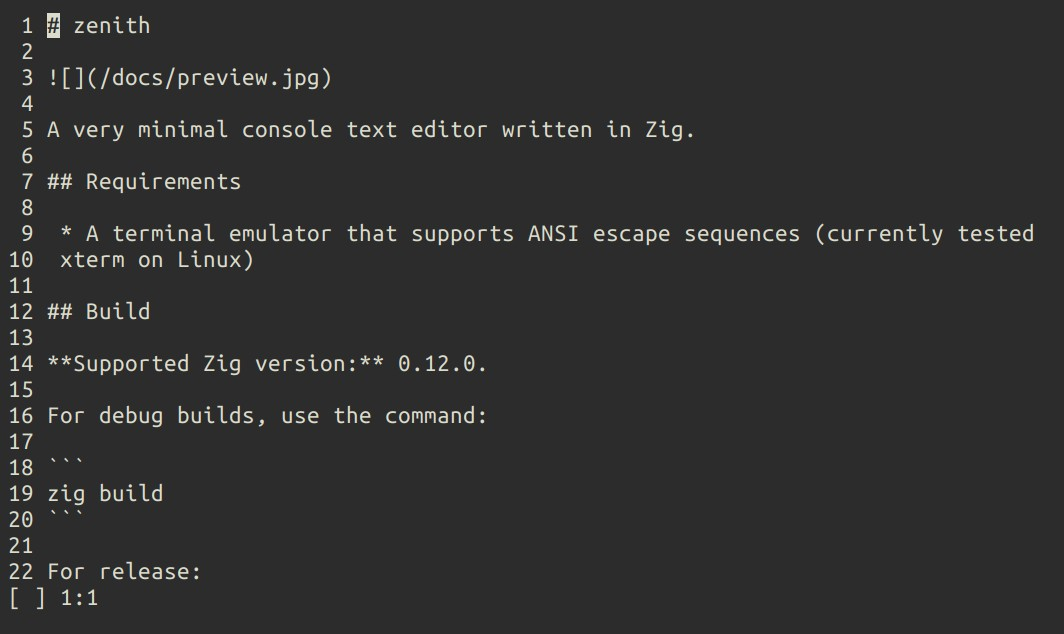
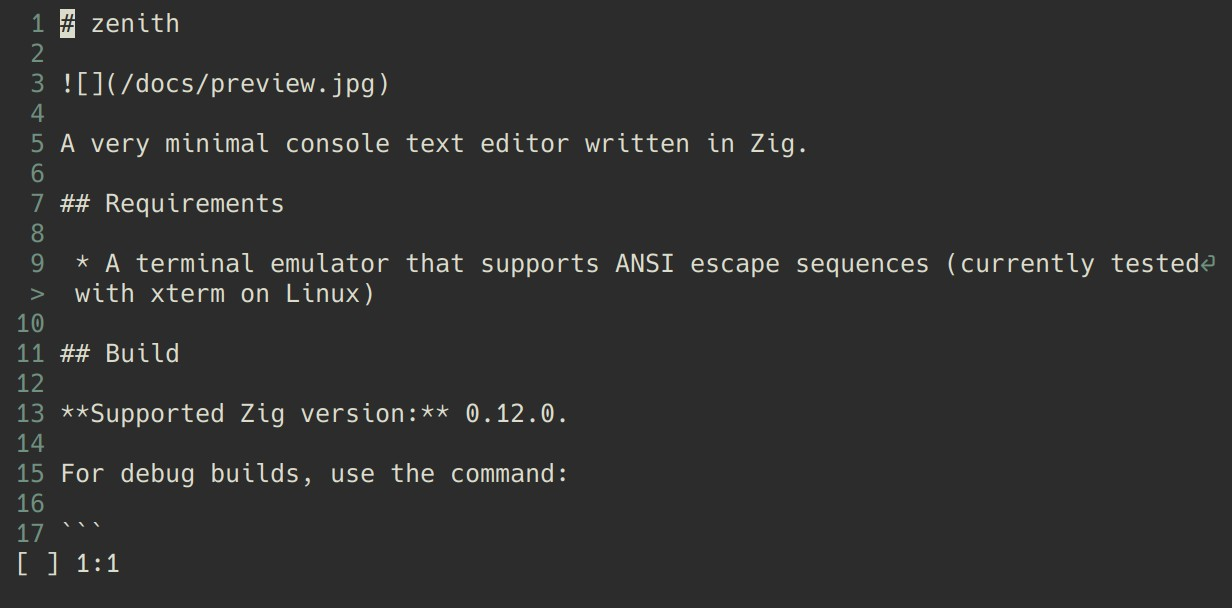
Update docs

Changed region(s): [[0.0, 0.0, 0.9925, 0.9688]]

diff --git a/DESIGN.md b/DESIGN.md
@@ -6,17 +6,12 @@ These are some guidelines I try to follow when writing code:
 
 * Follow the principle of locality of behavior: functions, variables and
 classes that have the same behavior should be placed closer together.
-* Constructor functions should be named `create` if it has side-effects (such as
-allocating memory), `init` if not.
-* Don't be too smart. When picking data structures, prioritize the use of "primitive
-data structures" unless you are aware of the trade-offs that come with other
-data structures.
+* Constructor functions should be named `create` if it has side-effects (such as allocating memory), `init` should be used otherwise.
 * Method names should be verb (+ object). i.e. `getProperty()` instead of
 `property()`
 * Always use blocks for if/while/for statements.
 
-* Follow some rules about complexity Rob Pike wrote about in
-"Notes on Programming in C":
+* Follow some rules about complexity Rob Pike wrote about in "Notes on Programming in C":
 
 > Rule 1.  You can't tell where a program is going to spend its time.  Bottlenecks occur in surprising places, so don't try to second guess and put in a speed hack until you've proven that's where the bottleneck is.
 > Rule 2.  Measure.  Don't tune for speed until you've measured, and even then don't unless one part of the code overwhelms the rest.
@@ -45,12 +40,8 @@ See [official documentation](https://ziglang.org/documentation/master/#Pass-by-v
   * Tigerbeetle solves this by always passing pointers.
 See [tigerbeetle: Zig tracking issue (#1191)](https://github.com/tigerbeetle/tigerbeetle/issues/1191).
 
-* Zig does not support error unions. There is no syntax for passing metadata along with
-errors. Zenith deals with this by having a custom Error generic union,
-which wraps the error type and payload, as well as the success value.
+* Zig does not support error unions. There is no syntax for passing metadata along with errors. Zenith deals with this by having a custom Error generic union, which wraps the error type and payload, as well as the success value.
 
-* Zig does not allow you to not use variables. You can't just prefix `_` to a variable
-to tell the compiler that the variable is not used.
+* Zig does not allow you to not use variables. You can't just prefix `_` to a variable to tell the compiler that the variable is not used.
 
-* The `zig-cache` directory is way too huge! Maybe link it to tmpfs and periodically
-clean up (the Makefile does this automatically).
+* The `zig-cache` directory balloons to gigabytes after a while! Maybe link it to tmpfs and periodically clean up (the Makefile does this automatically).

diff --git a/README.md b/README.md
@@ -6,8 +6,7 @@ A very minimal console text editor written in Zig.
 
 ## Requirements
 
- * A terminal emulator that supports ANSI escape sequences (currently tested with
- xterm on Linux)
+ * A terminal emulator that supports ANSI escape sequences (currently tested with xterm on Linux)
 
 ## Build
 
@@ -29,8 +28,7 @@ zig build -Doptimize=ReleaseSafe
 
 ### Text mode
 
-By default, zenith starts in text mode, which supports the following shortcuts
-(`^x` means ctrl + x):
+By default, zenith starts in text mode, which supports the following shortcuts (`^x` means ctrl + x):
 
 ```
 ^q: quit
@@ -49,8 +47,7 @@ Home/End can be used to go to the start/end of a line.
 
 ### Block mode
 
-Within block mode (accessible with `^b`), you can mark a block of text by moving
-your cursor and pressing Enter. Block mode supports the shortcuts:
+Within block mode (accessible with `^b`), you can mark a block of text by moving your cursor and pressing Enter. Block mode supports the shortcuts:
 
 ```
 enter: set end marker position
